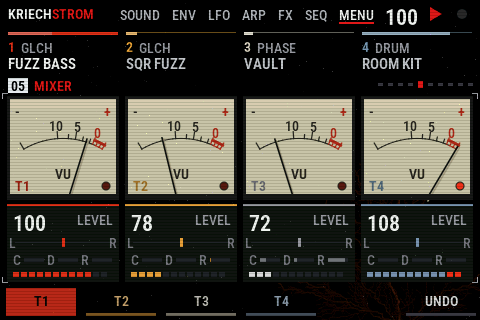
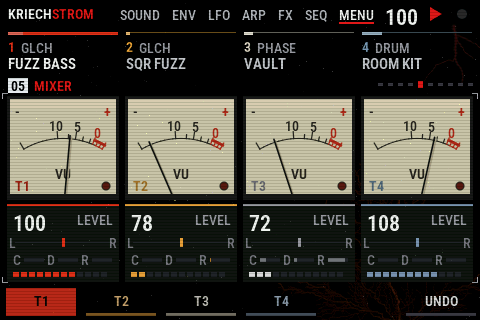
0.5.10: the tracks' levels follow the sound (the core's peaks taken and cleared each block); the idle figure grown each bar from its centre

diff --git a/kriechstrom/kx_wear.h b/kriechstrom/kx_wear.h
@@ -39,9 +39,11 @@ static inline uint16_t px_scale(uint16_t p, int k)   /* k: 256 = as it is */
  * extra arms and weight, HISS fine filaments around it. It glows dark red and fades in half a second (on FULL its core
  * is hot). MENU > DISPLAY: LIGHTNING off or on; nothing with SCREEN WEAR OFF. */
 #define LT_N 5
-#define LT_SEG 420
+#define LT_SEG 700
 typedef struct { int16_t x0, y0, x1, y1; uint8_t w; } lt_seg;   /* (w: quarter pixels) */
 static struct { lt_seg s[LT_SEG]; int n; uint64_t t0; float amt; } kx_lt[LT_N];
+static lt_seg *lt_out;                            /* where lt_tree writes, how many it has, how many fit */
+static int *lt_out_n, lt_out_cap;
 static int kx_lt_next;
 static int kx_lt_idle;                            /* the idle screen: from every edge and corner, hotter */
 static uint64_t kx_lt_last;                      /* the last one's time (the idle screen sparks on its own in silence) */
@@ -54,25 +56,25 @@ static float lt_u(void)
     return (float)(lt_rng & 0xFFFFu) / 65535.0f;
 }
 static float lt_g(void) { return (lt_u() + lt_u() + lt_u() - 1.5f) * 2.0f; }   /* (about a normal's) */
-static void lt_tree(int i, float x, float y, float ang, float len, float wid, int depth, float spread)
+static void lt_tree(float x, float y, float ang, float len, float wid, int depth, float spread)
 {
     float head = ang;
     int k, steps = 7 + (int)(lt_u() * 6.99f);
     if (depth <= 0 || wid < 0.35f)
         return;
-    for (k = 0; k < steps && kx_lt[i].n < LT_SEG; k++) {
+    for (k = 0; k < steps && *lt_out_n < lt_out_cap; k++) {
         float l = len * (0.15f + lt_u() * 0.25f), nx, ny;
         head += lt_g() * spread;
         head = head * 0.85f + ang * 0.15f;
         nx = x + vd_sin(head + 0.25f) * l;
         ny = y + vd_sin(head) * l;
         {
-            lt_seg *g = &kx_lt[i].s[kx_lt[i].n++];
+            lt_seg *g = &lt_out[(*lt_out_n)++];
             g->x0 = (int16_t)x, g->y0 = (int16_t)y, g->x1 = (int16_t)nx, g->y1 = (int16_t)ny;
             g->w = (uint8_t)(wid * 4.0f > 255.0f ? 255.0f : wid * 4.0f);
         }
         if (lt_u() < 0.3f)                        /* (a fork: 0.4 .. 1.1 rad off, shorter, thinner) */
-            lt_tree(i, nx, ny, head + (lt_u() < 0.5f ? -1.0f : 1.0f) * (0.4f + lt_u() * 0.7f) / 6.2832f, len * 0.72f,
+            lt_tree(nx, ny, head + (lt_u() < 0.5f ? -1.0f : 1.0f) * (0.4f + lt_u() * 0.7f) / 6.2832f, len * 0.72f,
                     wid * 0.55f, depth - 1, spread);
         x = nx, y = ny;
         wid *= 0.9f;
@@ -103,21 +105,62 @@ static void kx_lt_spawn(int kind, float amt)
         case 2: x = r < 0.5f ? -2.0f : 482.0f, y = 40.0f + lt_u() * 200.0f, ang = r < 0.5f ? 0.0f : 0.5f; break;
         default: x = 20.0f + lt_u() * 440.0f, y = 322.0f, ang = -0.25f; break;                    /* the floor */
         }
-        len = (kind == 2 ? 60.0f : 110.0f) + 170.0f * amt, wid = 1.6f + 3.0f * amt;
+        len = (kind == 2 ? 22.0f : 34.0f) + 44.0f * amt, wid = 1.8f + 3.0f * amt;
     } else switch (kind) {
-    case 0: x = 250.0f + lt_u() * 210.0f, y = 322.0f, ang = -0.25f, len = 90.0f + 140.0f * amt, wid = 2.2f + 2.6f * amt; break;
-    case 1: x = 482.0f, y = 120.0f + lt_u() * 150.0f, ang = 0.5f, len = 70.0f + 90.0f * amt, wid = 1.6f + 1.6f * amt; break;
-    case 2: x = 280.0f + lt_u() * 190.0f, y = 26.0f, ang = 0.25f, len = 24.0f + 36.0f * amt, wid = 0.9f + 0.6f * amt; break;
-    default: x = 470.0f, y = 312.0f, ang = -0.375f, len = 70.0f + 110.0f * amt, wid = 1.6f + 2.0f * amt; break;
+    case 0: x = 250.0f + lt_u() * 210.0f, y = 322.0f, ang = -0.25f, len = 34.0f + 40.0f * amt, wid = 2.4f + 2.4f * amt; break;
+    case 1: x = 482.0f, y = 120.0f + lt_u() * 150.0f, ang = 0.5f, len = 28.0f + 30.0f * amt, wid = 1.8f + 1.4f * amt; break;
+    case 2: x = 280.0f + lt_u() * 190.0f, y = 26.0f, ang = 0.25f, len = 12.0f + 14.0f * amt, wid = 1.0f + 0.6f * amt; break;
+    default: x = 470.0f, y = 312.0f, ang = -0.375f, len = 28.0f + 36.0f * amt, wid = 1.8f + 2.0f * amt; break;
     }
+    lt_out = kx_lt[i].s, lt_out_n = &kx_lt[i].n, lt_out_cap = LT_SEG;
     wid *= 1.0f + wall * 0.8f;
     arms = 1 + (wall > 0.5f) + (wall > 0.85f);
     for (a = 0; a < arms; a++)
-        lt_tree(i, x, y, ang + ((float)a - (float)(arms - 1) * 0.5f) * 0.06f, len, a ? wid * 0.7f : wid, 6, spread);
+        lt_tree(x, y, ang + ((float)a - (float)(arms - 1) * 0.5f) * 0.06f, len, a ? wid * 0.7f : wid, 6, spread);
     for (a = 0; a < (int)(hiss * 5.0f); a++)      /* (HISS: fine filaments about it) */
-        lt_tree(i, x + (lt_u() - 0.5f) * 60.0f, y + (lt_u() - 0.5f) * 30.0f, ang + (lt_u() - 0.5f) * 0.3f, 22.0f, 0.6f, 3,
+        lt_tree(x + (lt_u() - 0.5f) * 60.0f, y + (lt_u() - 0.5f) * 30.0f, ang + (lt_u() - 0.5f) * 0.3f, 10.0f, 0.6f, 3,
                 spread);
 }
+/* the idle screen's figure: grown anew each bar (each 2 s stopped), a new shape, from the root up over a third of a
+ * second, as the site's figures; it flares on the hits */
+#define LT_BIG 2400
+static lt_seg kx_big[LT_BIG];
+static int kx_big_n;
+static uint64_t kx_big_t0;
+static void kx_big_grow(void)
+{
+    float dmg = (float)song.g[G_DMG] / 127.0f, wall = (float)song.g[G_WALL] / 127.0f;
+    int a, arms = 5 + (int)(wall * 3.0f);
+    kx_big_n = 0;
+    lt_out = kx_big, lt_out_n = &kx_big_n, lt_out_cap = LT_BIG;
+    lt_rng ^= (uint32_t)vibe_frames() * 2246822519u;
+    for (a = 0; a < arms; a++)                    /* (krst_art.py splash: arms all round from the centre) */
+        lt_tree(240.0f, 160.0f, (float)a / (float)arms + (lt_u() - 0.5f) * 0.06f, 34.0f + 14.0f * lt_u(),
+                3.4f + wall * 1.6f, 8, 0.42f / 6.2832f * (0.8f + dmg));
+    kx_big_t0 = vibe_frames() ? vibe_frames() : 1;
+}
+static void kx_big_draw(float heat, float hit)
+{
+    int j, pass, n;
+    float g = (float)(vibe_frames() - kx_big_t0) / (kx_sr * 0.33f);
+    n = g >= 1.0f ? kx_big_n : (int)(g * (float)kx_big_n);
+    for (pass = 0; pass < 2; pass++) {
+        for (j = 0; j < n; j++) {
+            const lt_seg *s2 = &kx_big[j];
+            float w = (float)s2->w * 0.25f;
+            /* (red, its thick strands hot as the site's core, the thinnest dark; the growing tip brighter) */
+            float t = w > 1.6f ? 0.55f + 0.35f * hit : w > 0.9f ? 0.15f + 0.3f * hit : 0.0f;
+            uint32_t c = pass ? vg_mix(w > 0.6f ? 0xE02414 : 0x7A160C, 0xFFE8DC, t + 0.1f * heat)
+                              : vg_mix(C_BG, 0x5A140C, 0.5f + 0.5f * hit);
+            if (pass && j > n - 30 && g < 1.0f)
+                c = vg_mix(c, 0xFFF0E8, 0.6f);
+            if (!pass && w < 0.9f)
+                continue;
+            vg_line((float)s2->x0, (float)s2->y0, (float)s2->x1, (float)s2->y1, pass ? w : w * 3.0f + 1.0f, c);
+        }
+    }
+}
+
 static void kx_lt_draw(void)                      /* the background, under the page */
 {
     int i, pass;

diff --git a/kriechstrom/kx_draw.h b/kriechstrom/kx_draw.h
@@ -72,7 +72,7 @@ static void kx_draw_tracks(void)
         int x = 8 + (int)i * 118, sel = i == song.sel, mute = t->p[P_MUTE] != 0;
         uint32_t col = TRK_RGB[i], ink = mute ? 0x6A6A72 : sel ? C_WHITE : 0xC4C4CC;
         char nm[17], n[2] = {(char)('1' + i), 0};
-        float a = (float)clamp(t->peak, 0, 32767) / 32768.0f;
+        float a = kx_trk_pk[i];
         vg_rect(x, 32, 110, sel ? 3 : 1, mute ? 0x2A2A2E : sel ? col : vg_mix(C_BG, col, 0.45f));
         if (!mute)
             vg_rect(x, 32, (int)(a * 110.0f), 3, vg_mix(col, C_WHITE, 0.3f));
@@ -741,7 +741,7 @@ static void kx_draw_pedals(int pg, int x, int y, int w, int h)
         int k;
         vg_rect((int)x0, cy - 1, (int)(x1 - x0), 3, 0x3A3A40);
         if (!j)
-            a = o < NTRK ? (float)clamp(trk[o].peak, 0, 32767) / 32768.0f : kx_ped_lvl[o][0];
+            a = o < NTRK ? kx_trk_pk[o] : kx_ped_lvl[o][0];
         else
             a = v[j - 1][0] && v[j - 1][PD_MIX] ? kx_ped_lvl[o][j - 1] * 2.0f : 0.0f;
         for (k = 0; k < 3 && a > 0.03f; k++) {
@@ -1038,7 +1038,13 @@ static void kx_draw_idle(void)
     if (vibe_frames() - kx_lt_last > (uint64_t)(kx_sr * (song.playing ? 1.6f : 0.9f)))
         kx_lt_spawn(lt_u() < 0.5f ? 2 : 1, 0.35f + lt_u() * 0.4f);
     kx_lt_draw();
-    cr_draw(60, 10, 360, 300, 0.4f + cr_wear() * 0.6f, heat, C_RED);
+    {   /* the figure in the middle: grown anew each bar (each 2 s when stopped), flaring on the hits */
+        static uint32_t bar = 0xFFFFFFFFu;
+        uint32_t b = song.playing ? trk[song.sel].seq_idx / 16u : (uint32_t)(vibe_frames() / (uint64_t)(kx_sr * 2.0f));
+        if (b != bar || !kx_big_n)
+            bar = b, kx_big_grow();
+        kx_big_draw(heat > 1.0f ? 1.0f : heat, kx_fx_hit > 1.0f ? 1.0f : kx_fx_hit);
+    }
     kx_draw_scope(0, 200, 480, 100, C_WHITE, 1.0f);
     kx_logo(16, 286, VG_BOLD);
     kx_lt_idle = 0;
@@ -1270,7 +1276,7 @@ static void kx_leds(void)
     }
     for (i = 0; i < 4u; i++) {
         const track_t *t = &trk[i];
-        float a = (float)clamp(t->peak, 0, 32767) / 32768.0f;
+        float a = kx_trk_pk[i];
         vibe_led_pad((int)i, TRK_RGB[i], t->p[P_MUTE] ? 0.05f : 0.35f + 0.65f * a);
         if (kx_page == PG_MASTER) {               /* DAMAGE WALL SPLICE HAUNT: lit while on */
             static const uint8_t G[4] = {G_DMG, G_WALL, G_SPLICE, G_HAUNT};

diff --git a/kriechstrom/kx_audio.h b/kriechstrom/kx_audio.h
@@ -46,6 +46,7 @@ static float kx_hit_amt;                          /* .. how hard, 0..1 */
 static float kx_env_f, kx_env_s;
 static uint32_t kx_hit_hold;
 
+static float kx_trk_pk[NTRK];                     /* each track's level now (0..1, falling): the display reads it */
 static void kx_midi_block(void);                  /* kx_midi.h */
 static void kx_rec_block(const int32_t *o);       /* kx_sampler.h */
 
@@ -61,6 +62,12 @@ static void kx_core_block(void)
     int32_t o[2 * CTL];
     uint32_t i;
     mix_block(o, CTL);
+    for (i = 0; i < NTRK; i++) {                  /* the tracks' peaks: the FM-1's display takes and clears them (ui_graph.c);
+                                                   * here the audio flow does, into a level that falls (~0.2 s to half) */
+        float a = (float)clamp(trk[i].peak, 0, 32767) / 32768.0f;
+        kx_trk_pk[i] = a > kx_trk_pk[i] ? a : kx_trk_pk[i] * 0.9975f;
+        trk[i].peak = 0;
+    }
     kx_midi_block();
     kx_rec_block(o);
     for (i = 0; i < CTL; i++) {

diff --git a/kriechstrom/kx_pics.h b/kriechstrom/kx_pics.h
@@ -94,7 +94,7 @@ static float kx_vu_pos(float db) { db = db < -20.0f ? -20.0f : db > 3.0f ? 3.0f 
 static void kx_draw_vu(int x, int y, int w, int h, uint32_t k)
 {
     const track_t *t = &trk[k];
-    float a = (float)clamp(t->peak, 0, 32767) / 32768.0f, ang, cx = (float)x + (float)w * 0.5f;
+    float a = kx_trk_pk[k], ang, cx = (float)x + (float)w * 0.5f;
     int fh = h * 56 / 100, i, sy = y + fh + 4;
     float r = (float)fh * 0.74f, cy = (float)(y + fh) + r * 0.2f, span = 0.085f;   /* (+-31 degrees) */
     uint32_t col = TRK_RGB[k] == 0xD9D2C2 ? 0x9A9AA2 : TRK_RGB[k], ink = 0x2A2622;

diff --git a/kriechstrom/kx_hal.h b/kriechstrom/kx_hal.h
@@ -17,7 +17,7 @@ char *strchr(const char *s, int c);
 #endif
 #define FELUCCA_CDC 0
 #define FELUCCA_FLASH 0
-#define FELUCCA_VERSION "0.5.9"
+#define FELUCCA_VERSION "0.5.10"
 #define FM1_TICKS_PER_US 1u
 #define FM1_NCOL 11u
 #define __attribute__(x)

diff --git a/CHANGELOG.md b/CHANGELOG.md
@@ -5,6 +5,19 @@ All notable changes to KRIECHSTROM for VIBE FM. The format follows
 
 ## [Unreleased]
 
+## [0.5.10] - 2026-11-20
+
+On KRIECHSTROM 0.5.2 for the FM-1.
+
+### Fixed
+- the tracks' levels stuck at their loudest (the core keeps a peak the FM-1's display clears; nothing cleared it
+  here): the mixer's needles, the tracks' level lines, the pads' lights and the pedals' cables show the sound now and
+  fall when it stops
+
+### Changed
+- the idle screen's figure is grown anew each bar from its centre, as the FM-1's splash is, and flares on the hits; the
+  discharges behind the pages are shorter and branch more, as the site's do
+
 ## [0.5.9] - 2026-11-20
 
 On KRIECHSTROM 0.5.2 for the FM-1.

diff --git a/docs/release-0.5.10.md b/docs/release-0.5.10.md
@@ -1,0 +1,8 @@
+KRIECHSTROM for VIBE FM 0.5.10, on KRIECHSTROM 0.5.2 for the FM-1.
+
+- fixed: the mixer's needles, the tracks' level lines and the pads' lights stuck at the loudest moment; they follow
+  the sound now and fall when it stops
+- the idle screen's figure grows anew each bar from its centre and flares on the hits
+
+Files: `kriechstrom.wasm` (the Playground: Load your own .wasm, or drop it onto the device), `kriechstrom.zip`
+(VIBE FM VST: drop it onto its window). The source is this tag; `git clone --recursive` brings KRIECHSTROM's core with it.
